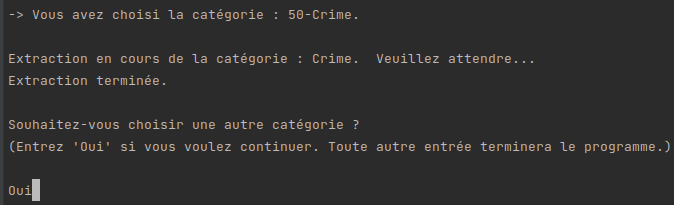
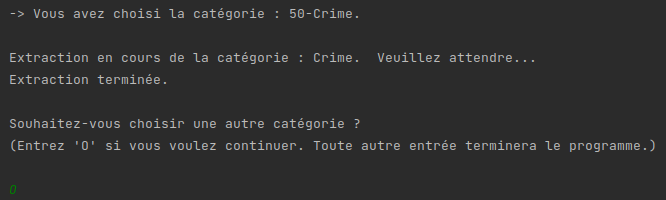
Mise à jour du README.md

diff --git a/README.md b/README.md
@@ -25,7 +25,7 @@ Concernant le rendu des données, pour chaque catégorie, est créé :
 
 
 ## Procédure d'installation
-Il est recommandé d'installer un environnement virtuel tel que *virtualenv*. Pour ce faire, suivez les instructions 
+Il est recommandé d'installer un environnement virtuel. Pour ce faire, suivez les instructions 
 ci-dessous :
 
 - S'il ne l'est pas déjà, installez le package *virtualenv* :
@@ -61,7 +61,7 @@ peut prendre beaucoup de temps.
 ![console](impression_ecran_readme/console_etape_1.png)
 
 - Une fois les informations extraites il est possible :
-  - de renouveler l'opération en inscrivant le mot 'Oui' (cf. image ci-dessous).
+  - de renouveler l'opération en inscrivant 'O' (cf. image ci-dessous).
   - de fermer le programme en inscrivant tout autre chose dans la console \(la touche *Entrée* suffit également à 
 elle seule).
 
